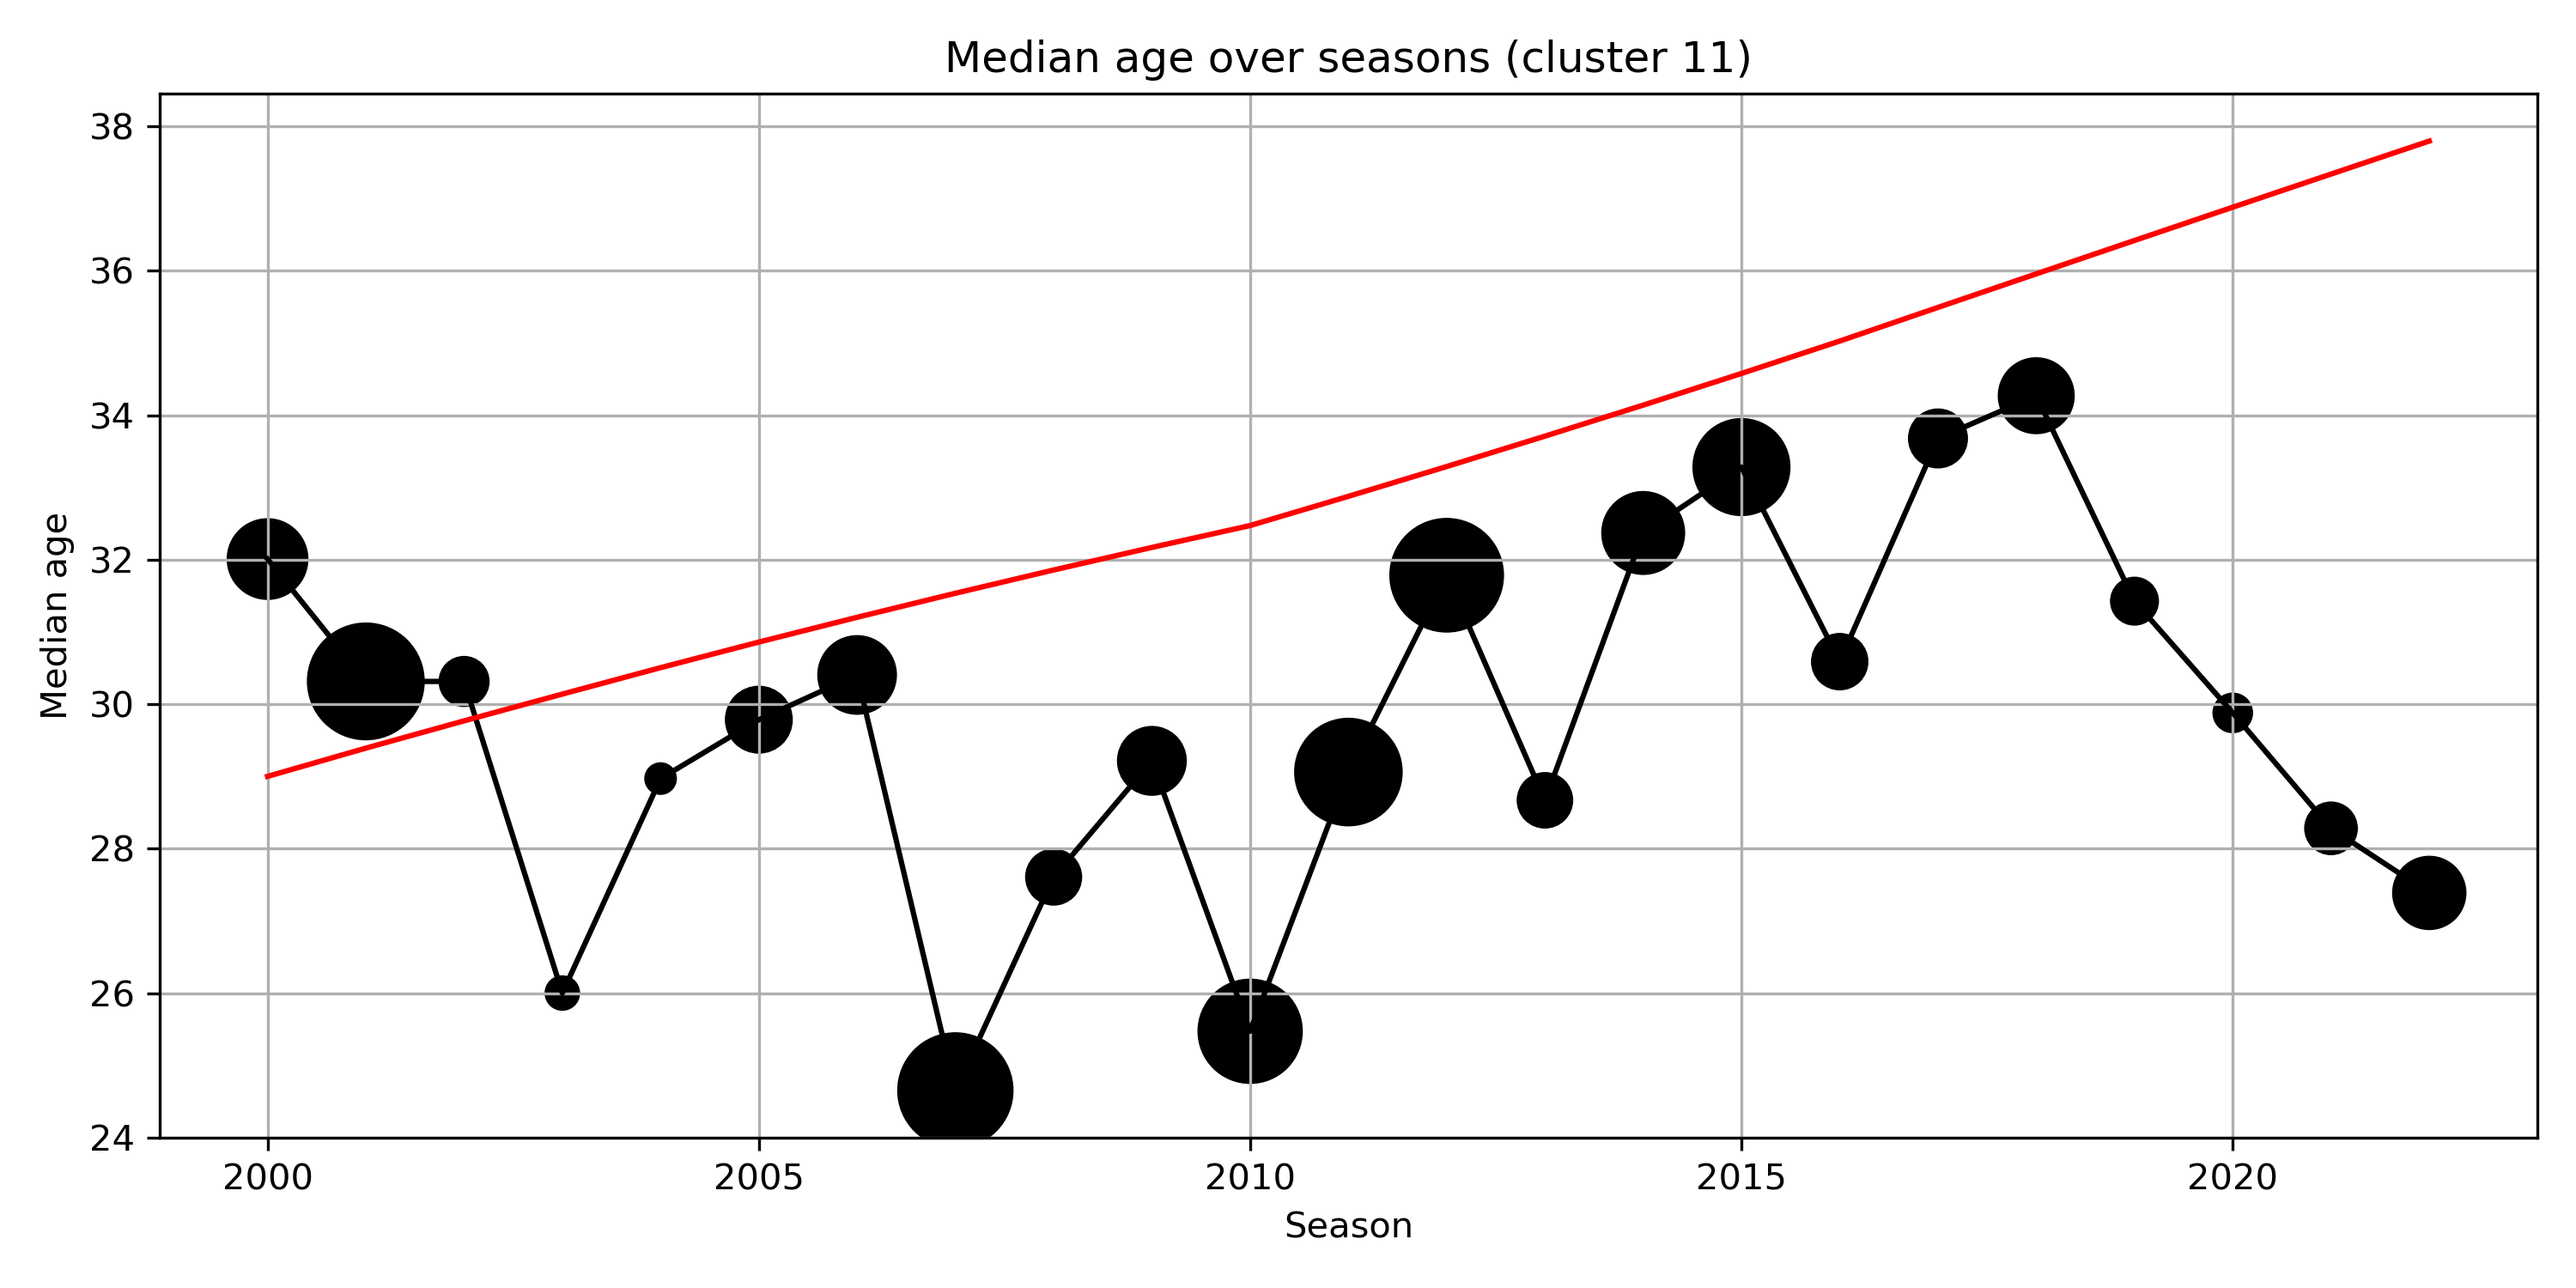
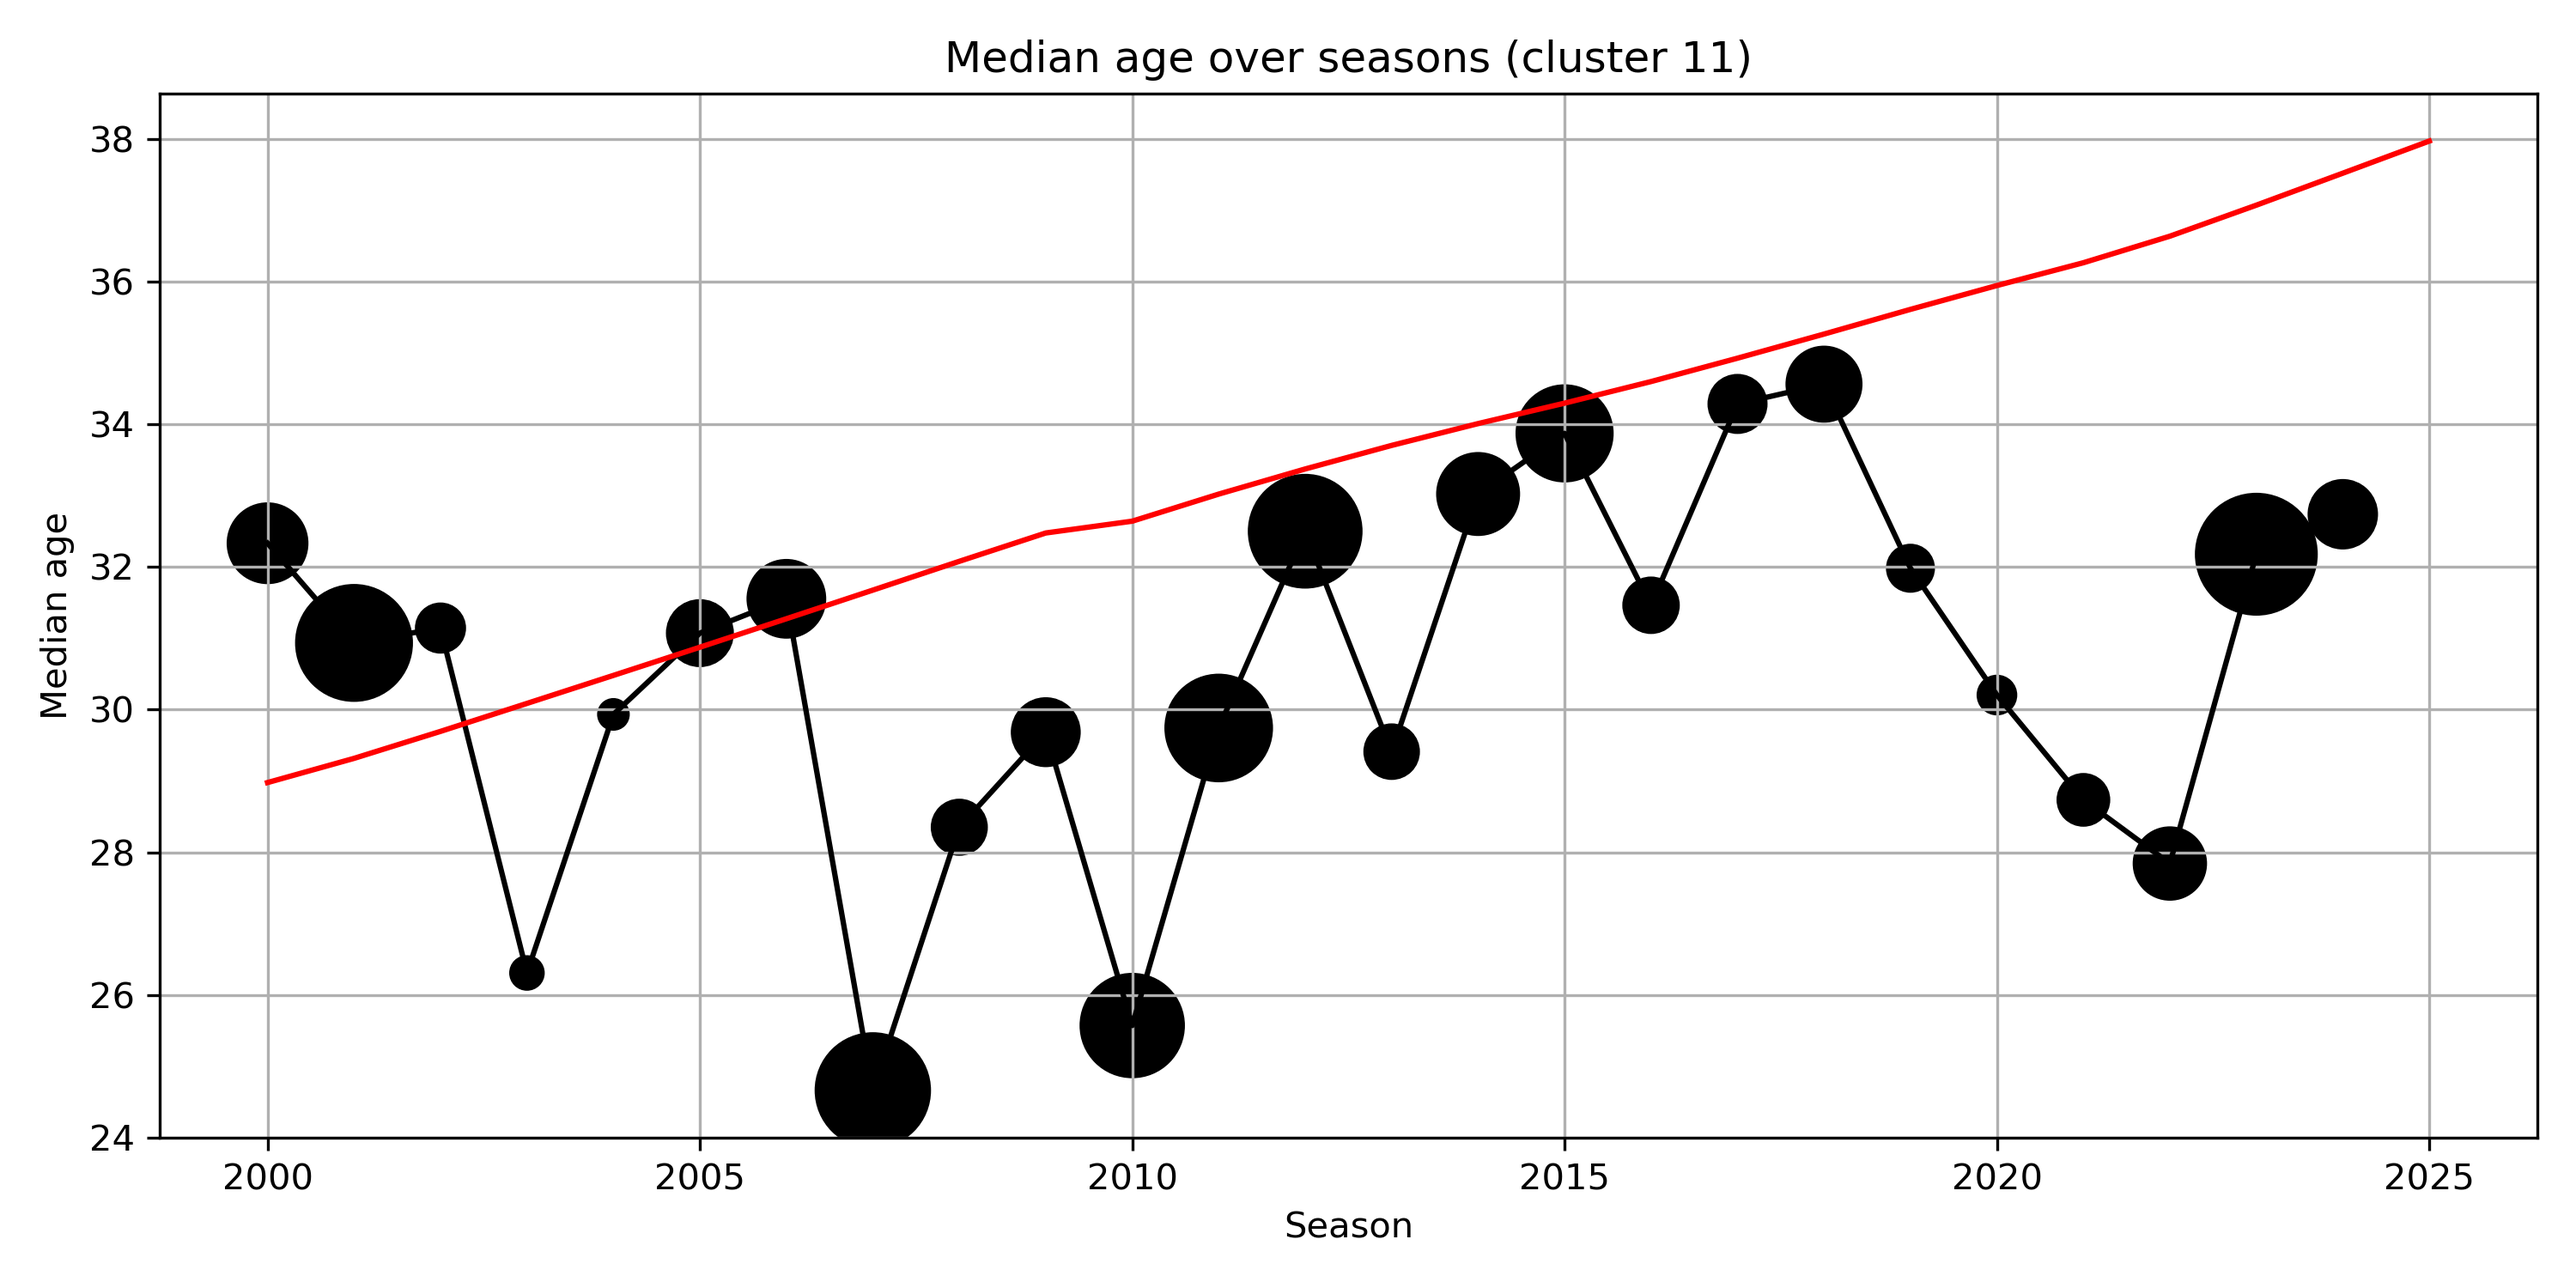
visualisation of the incidence anomaly

diff --git a/scripts/bayesian-imputation-model/visualise-total_DENV_age.py b/scripts/bayesian-imputation-model/visualise-total_DENV_age.py
@@ -1,12 +1,18 @@
 import os
 import numpy as np
 import pandas as pd
+import seaborn as sns
 import matplotlib.pyplot as plt
 
 abs_dir = os.path.dirname(__file__)
 
-# select cluster used in the visualisations
-cluster_id = 11
+##############
+## Settings ##
+##############
+
+cluster_id = 11 # select cluster used in the visualisations
+start_month_season = 9
+desired_age_groups = pd.IntervalIndex.from_tuples([(0, 5),(5, 15),(15, 25),(25, 45),(45, 65),(65, 120)], closed='left')
 
 ####################################
 ## Load and preprocess input data ##
@@ -16,7 +22,7 @@ cluster_id = 11
 cases = pd.read_csv(os.path.join(abs_dir, '../../data/interim/datasus_DENV-linelist/mun/DENV_total_age_1999-2025_monthly_mun.csv'))
 
 # load the age-municipality year demographic data
-demo = pd.read_csv(os.path.join(abs_dir, '../../data/interim/population/municipality-age_population_2000-2022_census.csv'))
+demo = pd.read_csv(os.path.join(abs_dir, '../../data/interim/population/municipality-age_population_2000-2025_datasus.csv'))
 
 # load clusters
 clusters = pd.read_csv(os.path.join(abs_dir, f'../../data/interim/pipeline_output/large_clusters/clusters/clusters_rgint.csv'))
@@ -31,15 +37,34 @@ demo = demo.merge(mapping[["CD_MUN", "cluster"]], on="CD_MUN", how="left")
 age_cols = [col for col in demo.columns if col.startswith('[')]
 demo = demo.groupby(['cluster', 'year'])[age_cols].sum().reset_index()
 
+# change the age groups (str) into interval (object)
+interval_cols = pd.IntervalIndex.from_tuples(
+    demo.columns[2:]
+    .str.extract(r'\[(\d+)-(\d+)\(')
+    .astype(int)
+    .apply(tuple, axis=1),
+    closed='left'
+)
+demo.columns = ['cluster', 'year', *interval_cols]
+
+# re-aggregate to the desired age groups (MUST BE AGGREGATIONS OF 5-year bins)
+rebinned = demo[['cluster', 'year']].copy()
+for coarse in desired_age_groups:
+    cols_to_sum = [
+        c for c in interval_cols
+        if c.left >= coarse.left and c.right <= coarse.right
+    ]
+    rebinned[coarse] = demo[cols_to_sum].sum(axis=1)
+demo = rebinned
+
 # aggregate the age-municipality-month dataset to the clusters
 cases = cases.merge(mapping[["CD_MUN", "cluster"]], on="CD_MUN", how="left")
 
 # append a "season" label (September of year X -> September of year X+1)
-start_month = 9
 cases['date'] = pd.to_datetime(cases['date'])
 year = cases['date'].dt.year
 month = cases['date'].dt.month
-season_start = year.where(month >= start_month, year - 1)
+season_start = year.where(month >= start_month_season, year - 1)
 cases['season'] = season_start.astype(str) + '-' + (season_start + 1).astype(str)
 
 #################################
@@ -53,9 +78,28 @@ cases = (
       .reset_index()
 )
 
+# convert string age bins to Interval objects for ease-of-manipulation
+cases['age_group'] = pd.IntervalIndex.from_tuples(
+    cases['age_group']
+    .str.extract(r'\[(\d+)-(\d+)\(')
+    .astype(int)
+    .apply(tuple, axis=1),
+    closed='left'
+)
+
+# rebin age groups
+cases['age_group'] = desired_age_groups.take(desired_age_groups.get_indexer(cases['age_group'].apply(lambda x: x.left)))
+cases = (cases
+    .groupby(
+        ['season', 'cluster', 'age_group'],
+        as_index=False
+    )['DENV_total']
+    .sum()
+)
+
 # add demographics and compute incidence per 100K in every season, cluster and age group
 cases['year'] = cases['season'].str[:4].astype(int)
-demo_long = demo.melt(id_vars=['cluster', 'year'], value_vars=age_cols, var_name='age_group', value_name='population')
+demo_long = demo.melt(id_vars=['cluster', 'year'], value_vars=demo.columns[2:], var_name='age_group', value_name='population')
 cases = cases.merge(demo_long, on=['cluster', 'year', 'age_group'], how='left')
 cases = cases.drop(columns=['year'])
 cases['DENV_incidence'] = cases['DENV_total'] / cases['population'] * 100000
@@ -94,11 +138,16 @@ cases = cases.merge(
     how="left"
 )
 
+# Compute anomaly
+cases["relative_anomaly"] = (
+    cases["relative_incidence"] -
+    cases["mean_relative_incidence"]
+)
+
 # compute midpoint of age brackets
-bounds = cases['age_group'].str.extract(r'\[(\d+)-(\d+)')
-cases['age_low'] = bounds[0].astype(int)
-cases['age_high'] = bounds[1].astype(int)
-cases['age_mid'] = (cases['age_low'] + cases['age_high']) / 2
+cases['age_low'] = cases['age_group'].apply(lambda x: x.left)
+cases['age_mid'] = cases['age_group'].apply(lambda x: (x.left + x.right) / 2)
+cases['age_high'] = cases['age_group'].apply(lambda x: x.right)
 
 # compute median age of the population
 pop_mean_age = (
@@ -179,17 +228,116 @@ statistics = statistics.merge(
 ## Make visualisations ##
 #########################
 
-# Relative incidence anomoly
+
+# Timeseries of relative incidence anomaly
+# ~~~~~~~~~~~~~~~~~~~~~~~~~~~~~~~~~~~~~~~~
+
+# --- Select cluster ---
+selected = desired_age_groups[:4]
+df_cluster = cases[cases["cluster"] == cluster_id].copy()
+
+# --- Sort seasons (keeps time order correct if strings behave oddly) ---
+df_cluster = df_cluster.sort_values(["season", "age_group"])
+
+# --- Plot ---
+plt.figure(figsize=(11.7,8.3/1.5))
+
+sns.lineplot(
+    data=df_cluster,
+    x="season",
+    y="relative_anomaly",
+    linewidth=1,
+    legend=False,
+    units='age_group',
+    estimator=None,
+    color='grey'
+)
+
+sns.lineplot(
+    data=df_cluster[df_cluster["age_group"].isin(selected)],
+    x="season",
+    y="relative_anomaly",
+    hue="age_group",
+    linewidth=3
+)
+
+
+# reference line
+plt.axhline(0, color="black", linestyle="--", linewidth=1)
+
+plt.title(f"Relative Incidence Anomaly by Age Group — Cluster {cluster_id}")
+plt.xlabel("Season")
+plt.ylabel("Relative incidence anomaly")
+plt.ylim([-0.8, 0.8])
+plt.xticks(rotation=90)
+
+plt.tight_layout()
+plt.savefig('incidence_anomaly_timeseries.png', dpi=300)
+plt.close()
+
+
+# Relative incidence anomaly across age groups
+# ~~~~~~~~~~~~~~~~~~~~~~~~~~~~~~~~~~~~~~~~~~~~
+
+# --- Select cluster ---
+df_cluster = cases[cases["cluster"] == cluster_id].copy()
+
+# --- Select seasons to highlight ---
+selected_seasons = [
+    "2007-2008",
+    "2010-2011",
+    "2020-2021",
+    "2021-2022",
+    "2022-2023"
+]
+
+# --- Sort for proper line drawing ---
+df_cluster = df_cluster.sort_values(["season", "age_mid"])
+
+# --- Plot ---
+plt.figure(figsize=(11.7, 8.3/1.5))
+
+# all seasons in grey
+sns.lineplot(
+    data=df_cluster,
+    x="age_mid",
+    y="relative_anomaly",
+    units="season",
+    estimator=None,
+    color="grey",
+    linewidth=1,
+    legend=False
+)
+
+# highlighted seasons
+sns.lineplot(
+    data=df_cluster[df_cluster["season"].isin(selected_seasons)],
+    x="age_mid",
+    y="relative_anomaly",
+    hue="season",
+    linewidth=3
+)
+
+# reference line
+plt.axhline(0, color="black", linestyle="--", linewidth=1)
+
+plt.title(f"Relative Incidence Anomaly across Age — Cluster {cluster_id}")
+plt.xlabel("Age")
+plt.ylabel("Relative incidence anomaly")
+
+# optional: use actual age-bin centers as ticks
+plt.xticks(df_cluster["age_mid"].unique())
+
+plt.tight_layout()
+plt.savefig("incidence_anomaly_by_age.png", dpi=300)
+plt.close()
+
+
+# Relative incidence anomaly
 # ~~~~~~~~~~~~~~~~~~~~~~~~~~
 
 # Keep age ordering
 age_order = cases["age_group"].unique()
-
-# Compute anomaly
-cases["relative_anomaly"] = (
-    cases["relative_incidence"] -
-    cases["mean_relative_incidence"]
-)
 
 # Filter cluster
 cluster_df = cases[cases["cluster"] == cluster_id]
@@ -311,7 +459,7 @@ for i, (ax, season) in enumerate(zip(axes, seasons)):
     ax.set_xticks(x)
     ax.set_xticklabels(plot_df["age_group"], rotation=90, fontsize=7)
     if (i % ncols)==0:
-        ax.set_ylabel("Rel. incidence anomoly")
+        ax.set_ylabel("Rel. incidence anomaly")
     ax.set_ylim([-1,1])
 
 # Remove unused axes
@@ -319,7 +467,7 @@ for i in range(len(seasons), len(axes)):
     fig.delaxes(axes[i])
 
 plt.tight_layout()
-plt.savefig('incidence_anomoly.png', dpi=300)
+plt.savefig('incidence_anomaly.png', dpi=300)
 #plt.show()
 plt.close()
 
